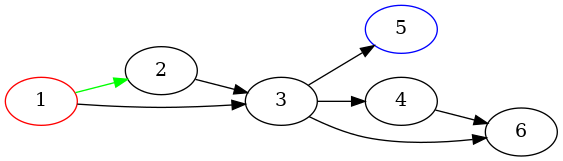
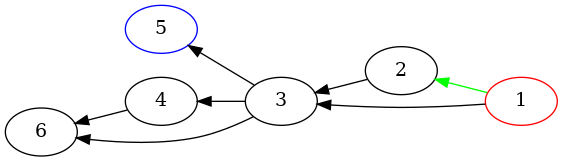
Auto commit at

diff --git a/PycharmProjects/pythonNewProject/pygraphiz/scratches/pygraphiz_code_1.py b/PycharmProjects/pythonNewProject/pygraphiz/scratches/pygraphiz_code_1.py
@@ -26,7 +26,7 @@ G.add_node(node_list)
 G.layout()
 G.draw("pygraphvis.png")
 
-A = pygraphviz.AGraph(directed=True, strict=True, rankdir="LR")
+A = pygraphviz.AGraph(directed=True, strict=False, rankdir="RL")
 # add node 1 with color red
 A.add_node(1, color="red")
 A.add_node(5, color="blue")
